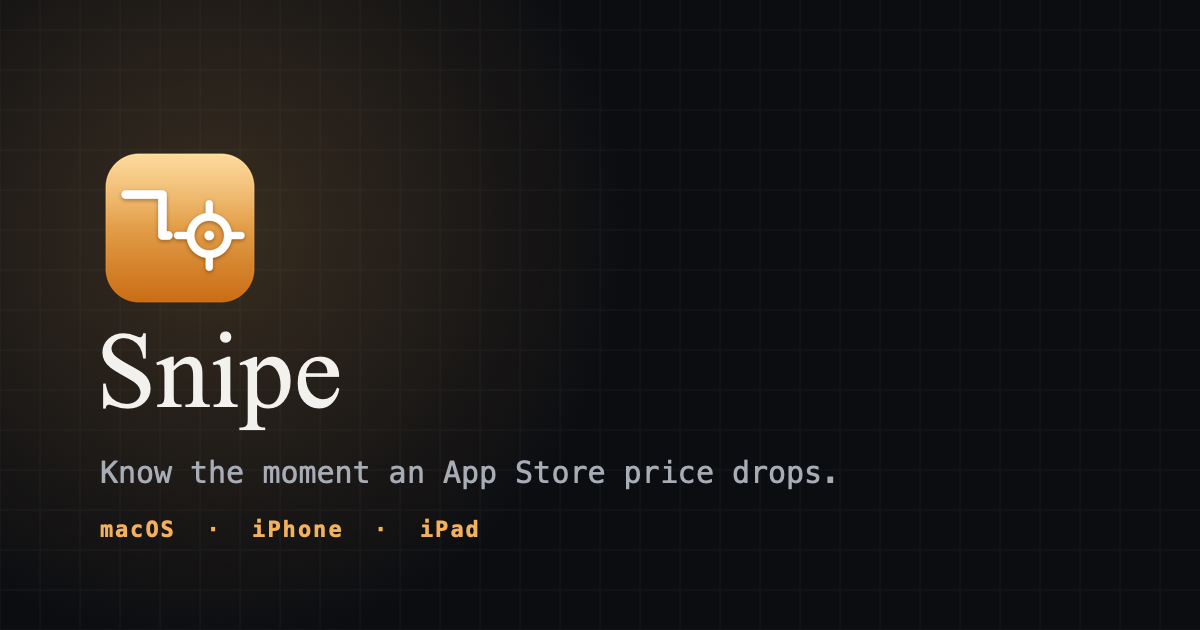
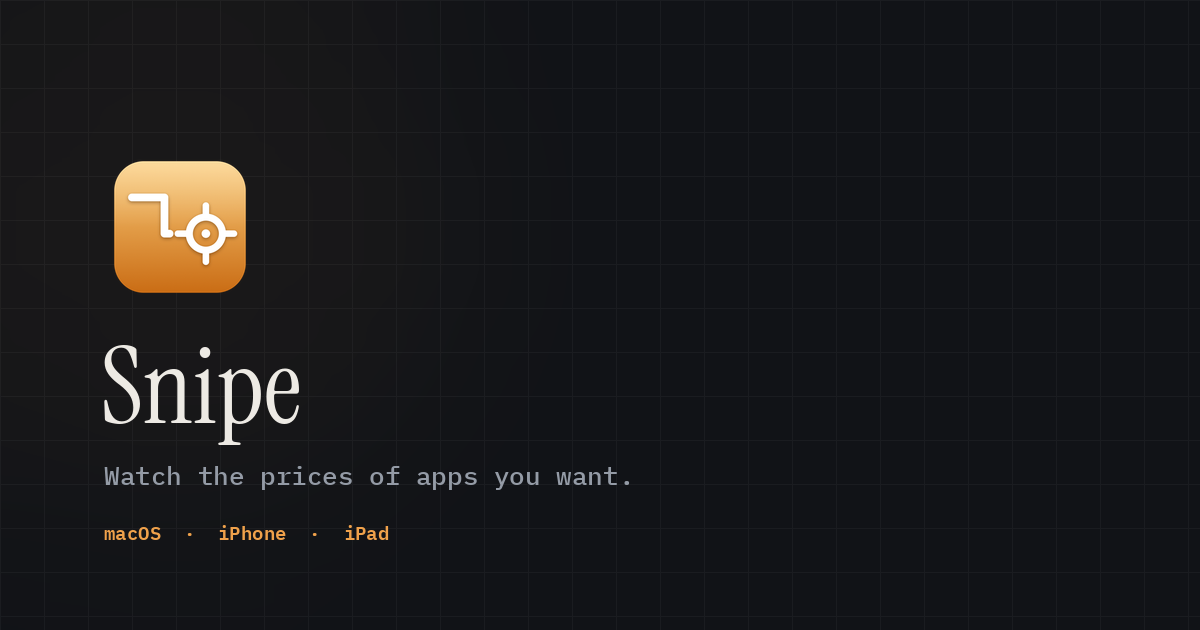
Regenerate the og card with the current tagline, fix its alt text

diff --git a/index.html b/index.html
@@ -19,7 +19,7 @@
 <meta property="og:image" content="https://snipeappsales.com/assets/og.png">
 <meta property="og:image:width" content="1200">
 <meta property="og:image:height" content="630">
-<meta property="og:image:alt" content="Snipe — a watchlist of App Store apps with their old price, current price and discount.">
+<meta property="og:image:alt" content="The Snipe app icon above the word Snipe, with the line: Watch the prices of apps you want. macOS, iPhone, iPad.">
 <meta name="twitter:card" content="summary_large_image">
 <meta name="twitter:image" content="https://snipeappsales.com/assets/og.png">
 
